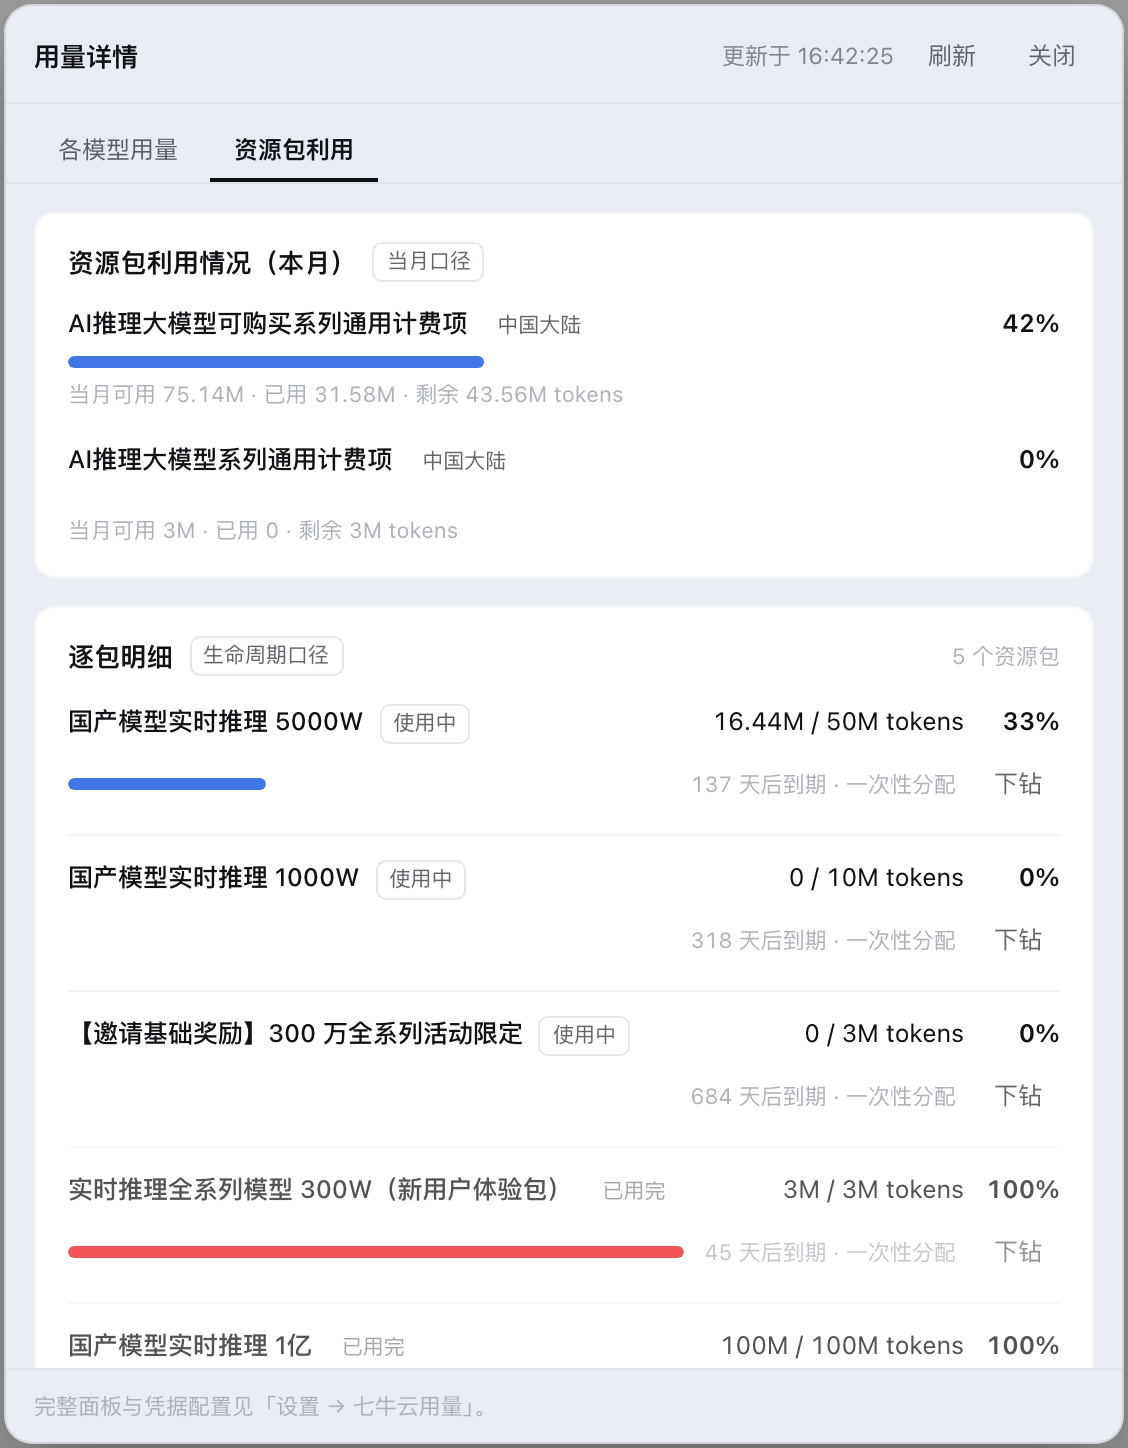
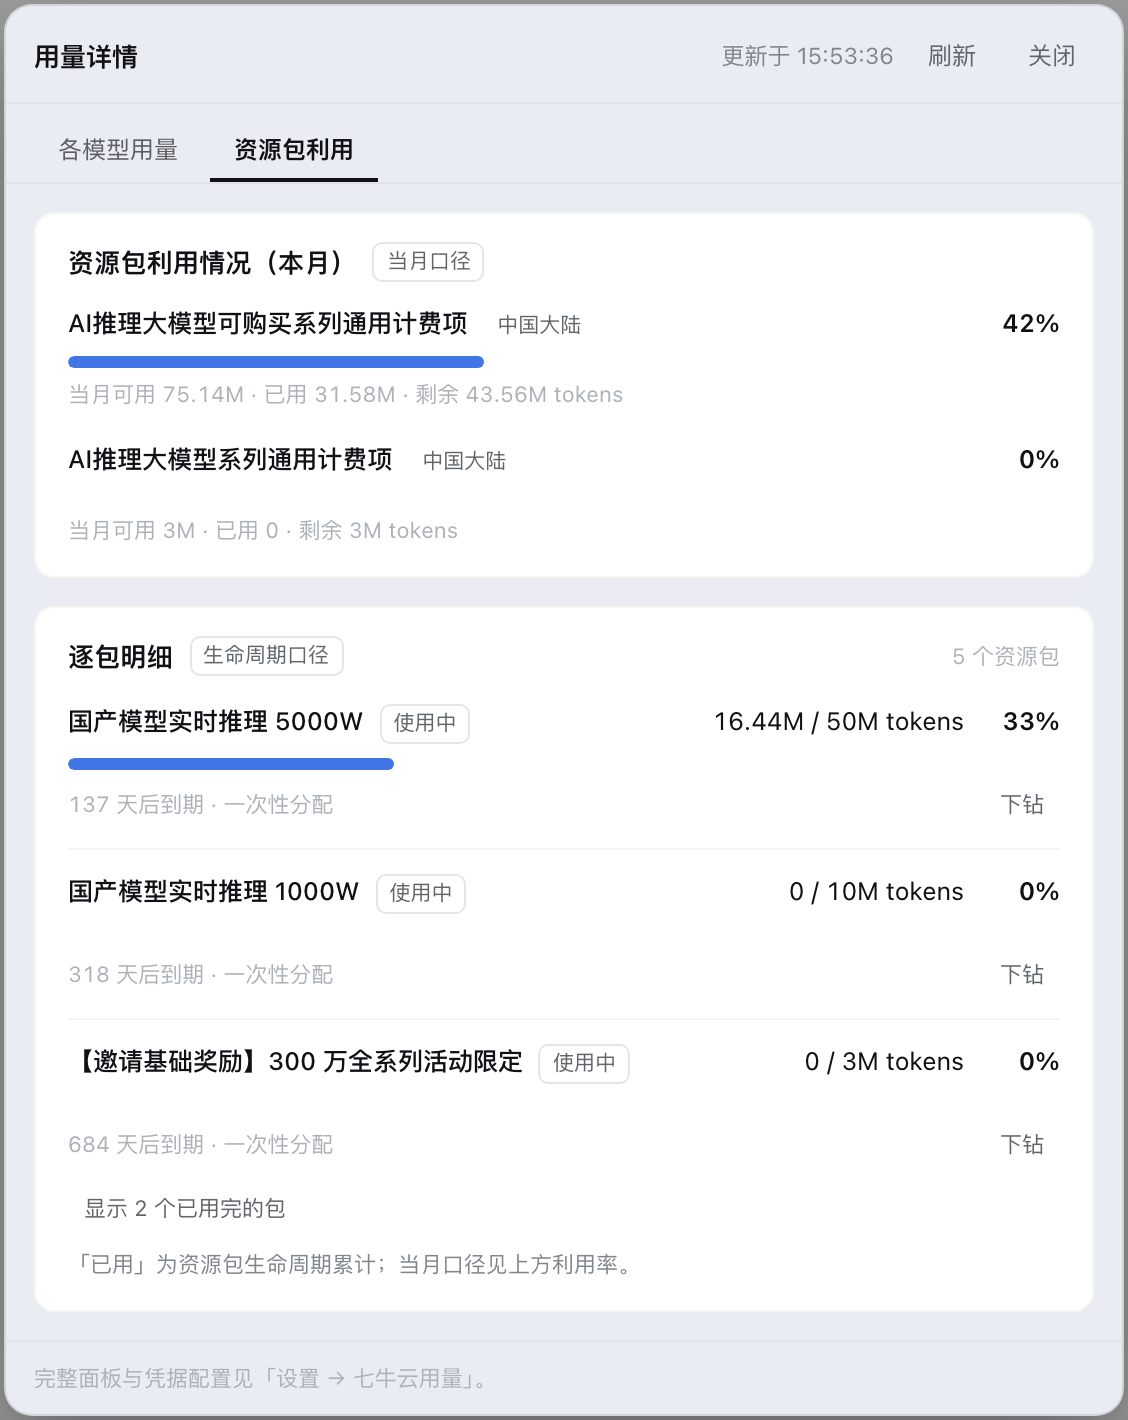
feat(respack): 折叠已用完资源包并优化逐包布局
- 已用完的资源包默认折叠，新增展开/收起开关及中英文文案
- 调整逐包明细布局，让进度条独占一行，到期信息与下钻按钮单独成行
- 新增 RespackPacks 行内布局与折叠行为测试
- 更新 README、README.zh.md 和 DESIGN 中的资源包说明
- 更新资源包详情截图
- 版本号升级到 0.1.3

diff --git a/test/respack-packs.test.ts b/test/respack-packs.test.ts
@@ -1,0 +1,149 @@
+// @vitest-environment jsdom
+// 逐包明细的两条硬约束：条形独占一行（同排时条尾随到期文案长短参差），已用完的包默认折叠。
+
+import {strict as assert} from 'node:assert'
+import {afterEach, describe, it} from 'vitest'
+import {createElement} from 'react'
+import {createRoot, type Root} from 'react-dom/client'
+
+import {RespackPacks} from '../src/client/RespackPacks.tsx'
+import {zh} from '../src/client/locales.ts'
+import {cls} from '../src/client/styles.ts'
+import type {RespackSnapshot} from '../src/qiniu/respack.ts'
+
+const dict = zh as unknown as Record<string, string>
+function t(key: string, params?: Record<string, unknown>): string {
+  const template = dict[key]
+  if (template === undefined) throw new Error(`文案键缺失：${key}`)
+  if (params === undefined) return template
+  return template.replace(/\{(\w+)\}/g, (_, name: string) => String(params[name] ?? `{${name}}`))
+}
+
+const ACTIVE = '国产模型实时推理 5000W'
+const FULL = '实时推理全系列模型 300W（新用户体验包）'
+
+const snapshot: RespackSnapshot = {
+  items: [],
+  fetchedAt: '2026-09-17T11:00:00+08:00',
+  warnings: [],
+  packages: [
+    {
+      name: ACTIVE,
+      unit: 'k/tokens',
+      status: 2,
+      statusLabel: '使用中',
+      effectiveStart: '2026-09-01T00:00:00+08:00',
+      effectiveEnd: '2027-02-01T00:00:00+08:00',
+      daysRemaining: 137,
+      carryOverPolicy: 2,
+      carryOverLabel: '一次性分配',
+      totalAmount: 50_000,
+      usedAmount: 16_440,
+      utilization: 0.3288,
+      orderHash: 'a'.repeat(32),
+      poId: 1,
+    },
+    {
+      name: FULL,
+      unit: 'k/tokens',
+      status: 3,
+      statusLabel: '已用完',
+      effectiveStart: '2026-08-01T00:00:00+08:00',
+      effectiveEnd: '2026-11-01T00:00:00+08:00',
+      daysRemaining: 45,
+      carryOverPolicy: 2,
+      carryOverLabel: '一次性分配',
+      totalAmount: 3_000,
+      usedAmount: 3_000,
+      utilization: 1,
+      orderHash: 'b'.repeat(32),
+      poId: 2,
+    },
+  ],
+}
+
+let mounted: { root: Root; container: HTMLElement } | undefined
+
+afterEach(() => {
+  mounted?.root.unmount()
+  mounted?.container.remove()
+  mounted = undefined
+})
+
+function mount(): HTMLElement {
+  const container = document.createElement('div')
+  document.body.append(container)
+  const root = createRoot(container)
+  root.render(createElement(RespackPacks, { snapshot, details: {}, onLoadDetail: () => {}, t }))
+  mounted = { root, container }
+  return container
+}
+
+async function waitFor(predicate: () => boolean, timeoutMs = 1_500): Promise<void> {
+  const deadline = Date.now() + timeoutMs
+  while (Date.now() < deadline) {
+    if (predicate()) return
+    await new Promise((resolve) => setTimeout(resolve, 10))
+  }
+  throw new Error('等待超时：条件始终不成立')
+}
+
+function click(element: Element): void {
+  element.dispatchEvent(new window.MouseEvent('click', { bubbles: true }))
+}
+
+describe('逐包明细 · 行内布局', () => {
+  it('条形是包的直接子元素，占满整行', async () => {
+    const container = mount()
+    await waitFor(() => container.textContent!.includes(ACTIVE))
+    const bar = container.querySelector(`.${cls.packBar}`)
+    assert.ok(bar !== null, '应有进度条')
+    assert.equal(bar!.parentElement!.classList.contains(cls.pack), true, '条形不该被塞进与元信息同排的容器')
+  })
+
+  it('元信息与下钻单独一行（到期提示不再挤占条形宽度）', async () => {
+    const container = mount()
+    await waitFor(() => container.textContent!.includes(ACTIVE))
+    const meta = container.querySelector(`.${cls.packMeta}`)
+    const foot = container.querySelector(`.${cls.packFoot}`)
+    assert.ok(meta !== null && foot !== null, '应有元信息行')
+    assert.equal(meta!.parentElement, foot, '元信息应挂在 packFoot 上')
+    assert.ok(foot!.querySelector(`.${cls.packAction}`) !== null, '下钻按钮应与元信息同一行')
+    assert.ok(meta!.textContent!.includes('天后到期'), `元信息应含到期提示，实际：${meta!.textContent}`)
+  })
+})
+
+describe('逐包明细 · 已用完的包默认折叠', () => {
+  it('默认不渲染 100% 利用的包，开关带上数量', async () => {
+    const container = mount()
+    await waitFor(() => container.textContent!.includes(ACTIVE))
+    assert.equal(container.textContent!.includes(FULL), false, '默认应隐藏 100% 利用的包')
+    const toggle = container.querySelector(`.${cls.packToggle}`)
+    assert.ok(toggle !== null, '应有展开开关')
+    assert.equal(toggle!.textContent, t('qiniu.respack.showFull', { count: 1 }))
+  })
+
+  it('点一次展开，再点一次收起', async () => {
+    const container = mount()
+    await waitFor(() => container.textContent!.includes(ACTIVE))
+    const toggle = container.querySelector(`.${cls.packToggle}`)!
+    click(toggle)
+    await waitFor(() => container.textContent!.includes(FULL))
+    assert.ok(container.textContent!.includes(ACTIVE), '展开后仍在用的包不应消失')
+    assert.equal(container.querySelector(`.${cls.packToggle}`)!.textContent, t('qiniu.respack.hideFull'))
+
+    click(container.querySelector(`.${cls.packToggle}`)!)
+    await waitFor(() => !container.textContent!.includes(FULL))
+  })
+
+  it('没有已用完的包时不出现开关', async () => {
+    const onlyActive: RespackSnapshot = { ...snapshot, packages: snapshot.packages.slice(0, 1) }
+    const container = document.createElement('div')
+    document.body.append(container)
+    const root = createRoot(container)
+    root.render(createElement(RespackPacks, { snapshot: onlyActive, details: {}, onLoadDetail: () => {}, t }))
+    mounted = { root, container }
+    await waitFor(() => container.textContent!.includes(ACTIVE))
+    assert.equal(container.querySelector(`.${cls.packToggle}`), null, '没有已用完的包就不该有开关')
+  })
+})

diff --git a/src/client/RespackPacks.tsx b/src/client/RespackPacks.tsx
@@ -79,6 +79,7 @@ function renderDetail(detail: RespackDetail | undefined, t: Translate): ReactNod
 
 export function RespackPacks({ snapshot, details, onLoadDetail, t }: RespackPacksProps): ReactNode {
   const [openPacks, setOpenPacks] = useState<Record<string, boolean>>({})
+  const [showFull, setShowFull] = useState(false)
 
   if (snapshot.packages.length === 0) {
     return createElement('div', { className: cls.empty }, t('qiniu.empty.noRespack'))
@@ -90,18 +91,22 @@ export function RespackPacks({ snapshot, details, onLoadDetail, t }: RespackPack
     if (next) onLoadDetail(orderHash, poId)
   }
 
+  // 已用完的包只增不减，且首屏塞满它们会把仍在用的包挤下去：默认折叠。
+  const fullPacks = snapshot.packages.filter((pack) => pack.utilization >= 1)
+  const visible = showFull ? snapshot.packages : snapshot.packages.filter((pack) => pack.utilization < 1)
+
   return createElement(
     'div',
     { style: { display: 'flex', flexDirection: 'column', gap: '10px' } },
     createElement(
       'div',
       { className: cls.packs },
-      ...snapshot.packages.map((pack) => {
+      ...visible.map((pack) => {
         const key = `${pack.orderHash}:${pack.poId}`
         const isOpen = openPacks[key] === true
         const detail = details[key]
         const done = pack.status === 3 || pack.utilization >= 1
-        const expiry = expiryText(pack, t)
+        const meta = [expiryText(pack, t), pack.carryOverLabel].filter((part) => part !== '').join(' · ')
 
         return createElement(
           'div',
@@ -128,25 +133,21 @@ export function RespackPacks({ snapshot, details, onLoadDetail, t }: RespackPack
           ),
           createElement(
             'div',
-            { className: cls.packRow },
-            createElement(
-              'div',
-              { className: `${cls.bar} ${cls.packBar}` },
-              createElement('div', {
-                className: cls.barFill,
-                style: barFillStyle(pack.utilization, barTone(pack.utilization)),
-              }),
-            ),
-            createElement(
-              'span',
-              { className: cls.packMeta },
-              [expiry, pack.carryOverLabel].filter((part) => part !== '').join(' · '),
-            ),
+            { className: `${cls.bar} ${cls.packBar}` },
+            createElement('div', {
+              className: cls.barFill,
+              style: barFillStyle(pack.utilization, barTone(pack.utilization)),
+            }),
+          ),
+          createElement(
+            'div',
+            { className: cls.packFoot },
+            createElement('span', { className: cls.packMeta }, meta),
             createElement(
               'button',
               {
                 type: 'button',
-                className: `${cls.btn} ${cls.btnGhost}`,
+                className: `${cls.btn} ${cls.btnGhost} ${cls.packAction}`,
                 onClick: () => toggle(key, pack.orderHash, pack.poId),
               },
               t('qiniu.respack.detail'),
@@ -156,6 +157,19 @@ export function RespackPacks({ snapshot, details, onLoadDetail, t }: RespackPack
         )
       }),
     ),
+    fullPacks.length === 0
+      ? null
+      : createElement(
+          'button',
+          {
+            type: 'button',
+            className: `${cls.btn} ${cls.btnGhost} ${cls.packToggle}`,
+            onClick: () => setShowFull((current) => !current),
+          },
+          showFull
+            ? t('qiniu.respack.hideFull')
+            : t('qiniu.respack.showFull', { count: fullPacks.length }),
+        ),
     createElement(
       'div',
       { className: cls.muted, style: { fontSize: '11px' } },

diff --git a/src/client/styles.ts b/src/client/styles.ts
@@ -50,9 +50,11 @@ export const cls = {
   packHead: `${NS}-pack-head`,
   packName: `${NS}-pack-name`,
   packFigures: `${NS}-pack-figures`,
-  packRow: `${NS}-pack-row`,
   packBar: `${NS}-pack-bar`,
+  packFoot: `${NS}-pack-foot`,
   packMeta: `${NS}-pack-meta`,
+  packAction: `${NS}-pack-action`,
+  packToggle: `${NS}-pack-toggle`,
   callout: `${NS}-callout`,
   calloutWarn: `${NS}-callout-warn`,
   calloutError: `${NS}-callout-error`,
@@ -331,14 +333,23 @@ const RAW_CSS = `
 }
 /* 百分比定宽右对齐，使各行形成一列（跨行可比较） */
 .${cls.packPercent} { min-width: 38px; text-align: right; font-weight: 600; }
-.${cls.packRow} { display: flex; align-items: center; gap: 10px; }
-.${cls.packBar} { flex: 1 1 auto; min-width: 110px; }
+/* 条形独占一整行：与元信息同排时，条尾随到期文案长短浮动，各行对不齐。 */
+.${cls.packBar} { display: block; width: 100%; }
+.${cls.packFoot} { display: flex; align-items: center; gap: 8px; min-width: 0; }
 .${cls.packMeta} {
+  flex: 1 1 auto;
+  min-width: 0;
+  overflow: hidden;
+  text-overflow: ellipsis;
+  white-space: nowrap;
   font-size: 11px;
   color: ${v('label-caption', 'rgba(128,128,128,.8)')};
-  white-space: nowrap;
   font-variant-numeric: tabular-nums;
 }
+/* 下钻与折叠开关：比工具条按钮矮一档，不把包的行距撑开。 */
+.${cls.packAction},
+.${cls.packToggle} { height: 20px; padding: 0 7px; border-radius: 5px; font-size: 11px; }
+.${cls.packToggle} { align-self: flex-start; }
 
 /* 提示条 / 空状态 / 骨架 */
 .${cls.callout} {

diff --git a/src/client/locales.ts b/src/client/locales.ts
@@ -36,6 +36,8 @@ export const zh = {
   'qiniu.respack.expired': '已过期',
   'qiniu.respack.expiresOn': '{date} 到期',
   'qiniu.respack.detail': '下钻',
+  'qiniu.respack.showFull': '显示 {count} 个已用完的包',
+  'qiniu.respack.hideFull': '收起已用完的包',
   'qiniu.respack.detail.loading': '正在读取抵扣明细…',
   'qiniu.respack.detail.none': '没有抵扣明细',
   'qiniu.respack.detail.deductDate': '抵扣月份',
@@ -151,6 +153,8 @@ export const en: LocaleDictOf<typeof NS> = {
   'qiniu.respack.expired': 'expired',
   'qiniu.respack.expiresOn': 'expires {date}',
   'qiniu.respack.detail': 'Drill down',
+  'qiniu.respack.showFull': 'Show {count} used-up packs',
+  'qiniu.respack.hideFull': 'Hide used-up packs',
   'qiniu.respack.detail.loading': 'Loading deduction detail…',
   'qiniu.respack.detail.none': 'No deduction records',
   'qiniu.respack.detail.deductDate': 'Deduction month',

diff --git a/DESIGN.md b/DESIGN.md
@@ -636,6 +636,13 @@ ctx.slots.register({
 透明度并用填充式徽标，与"使用中"的描边式区分；利用率 ≥75% 转警告色、≥90% 转危险色。
 百分比定宽右对齐，跨行形成一列便于比较。
 
+**条形独占一行、到期提示另起一行**：条形与到期文案同排时，条尾随文案长短浮动，各行参差
+且无法横向比较。条形满宽（两端都对齐卡片内容边），到期与分配方式连同「下钻」放在下一行，
+比例本身仍由填充宽度表达。
+
+**已用完的包默认折叠**：这类包只增不减，摊在首屏会把仍在用的包挤走。利用率 ≥100% 的包
+收进「显示 N 个已用完的包」开关，展开时按上游原序插回列表。
+
 **单位换算（可读性修正）**：上游资源包单位可能是**自带量级**的（实测为
 `k/tokens`，带斜杠）。若再叠加 SI 紧凑表示会得到 `50K k/tokens` —— 实际值是
 50,000 k/tokens = 50,000,000 tokens，**两套量级叠在一起，用户会以为那是 5 万**，

diff --git a/README.zh.md b/README.zh.md
@@ -168,7 +168,8 @@ DSH 凭据库；**轮换密钥下一次请求即生效，无需重启**。表单
 
 - **各模型用量** —— 日期（今天 / 昨天）与 Key（全部 Key 汇总 / 单个 Key）两个筛选器，
   各模型输入 / 输出 / 合计表。
-- **资源包利用** —— 当月口径的计费项利用率 + 逐包明细。
+- **资源包利用** —— 当月口径的计费项利用率 + 逐包明细（利用率 100% 的包默认折叠，
+  底部一行开关可展开）。
 
 卡片标题跟着筛选走：切到昨天就写「昨日用量」，筛了单个 Key 就补上 Key 名 —— 卡片与
 弹窗共用一个 store，不会出现"卡片上的数字其实是某个 Key 的"这种误读。展开状态按浏览器

diff --git a/README.md b/README.md
@@ -186,7 +186,8 @@ title, today's total; expanded it shows the three largest models plus a
 - **Model usage** — date (today / yesterday) and key (all keys combined / a single
   key) filters plus the per-model input / output / total table.
 - **Resource packs** — month-to-date utilisation per billing item plus per-pack
-  detail.
+  detail. Fully used packs (100%) are collapsed by default; one toggle at the
+  bottom of the list expands them.
 
 The card title follows those filters: switch to yesterday and it reads 昨日用量,
 filter a key and it appends the key name — card and dialog share one store, so the
